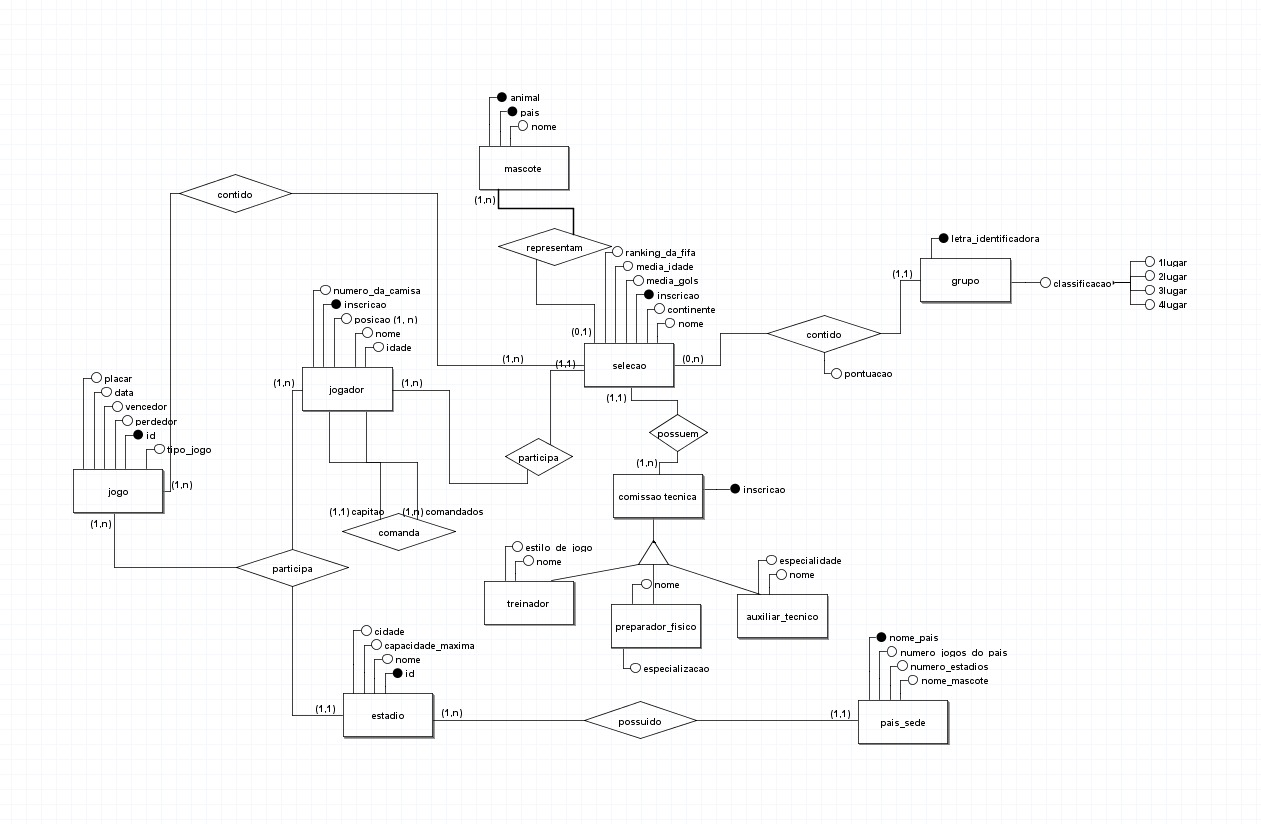
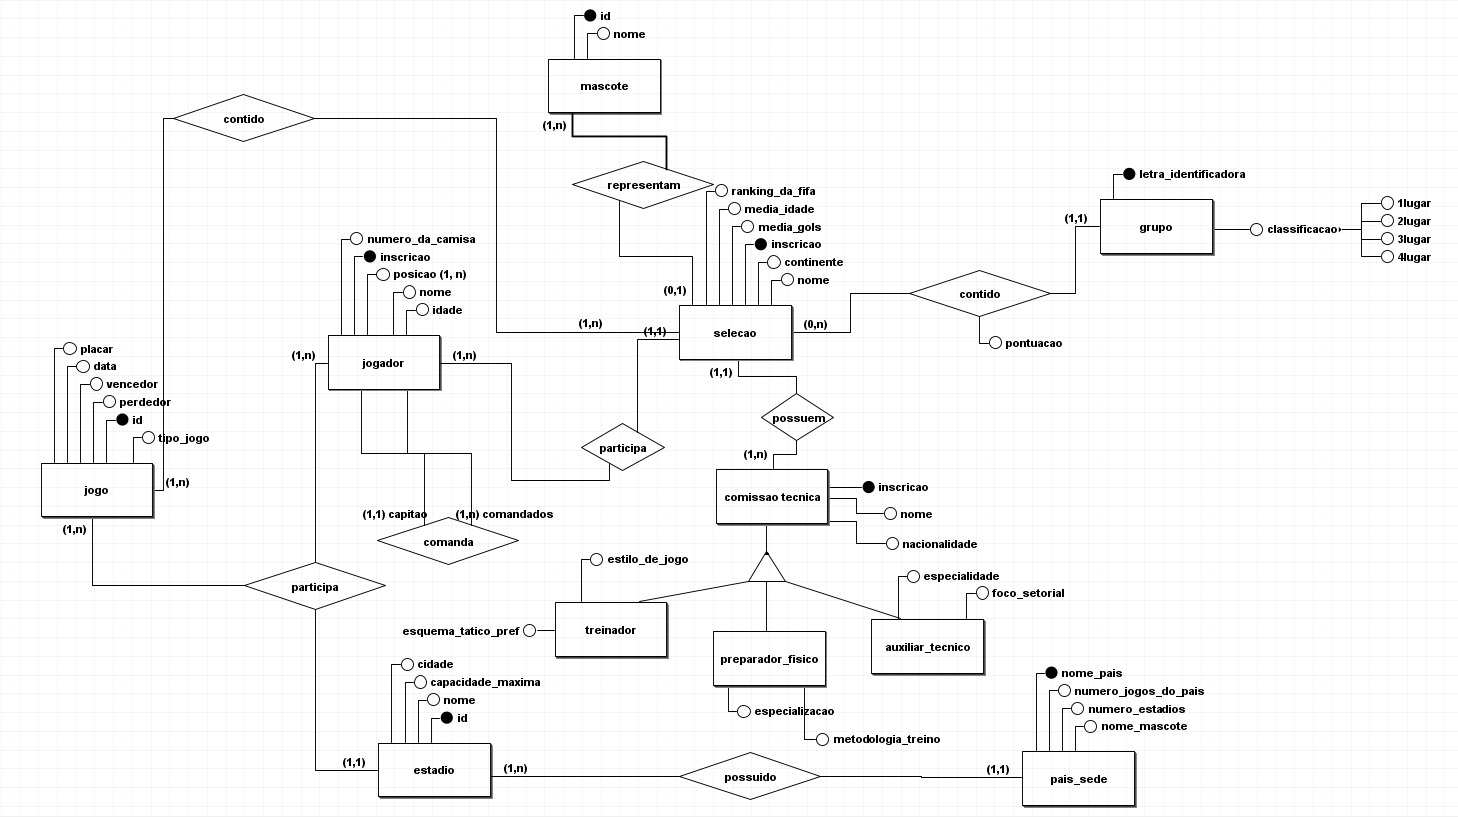
mudando conceitual e lógico

diff --git a/README.md b/README.md
@@ -26,7 +26,7 @@ O mini mundo tem como tema principal a copa do mundo de clubes que acontecerá n
 
 ## Modelo lógico
 
-![Diagrama de Entidade e Relacionamento](imagens/logico.jpeg)
+![Diagrama de Entidade e Relacionamento](imagens/lógico.jpeg)
 
 ## Tecnologias utilizadas
 
